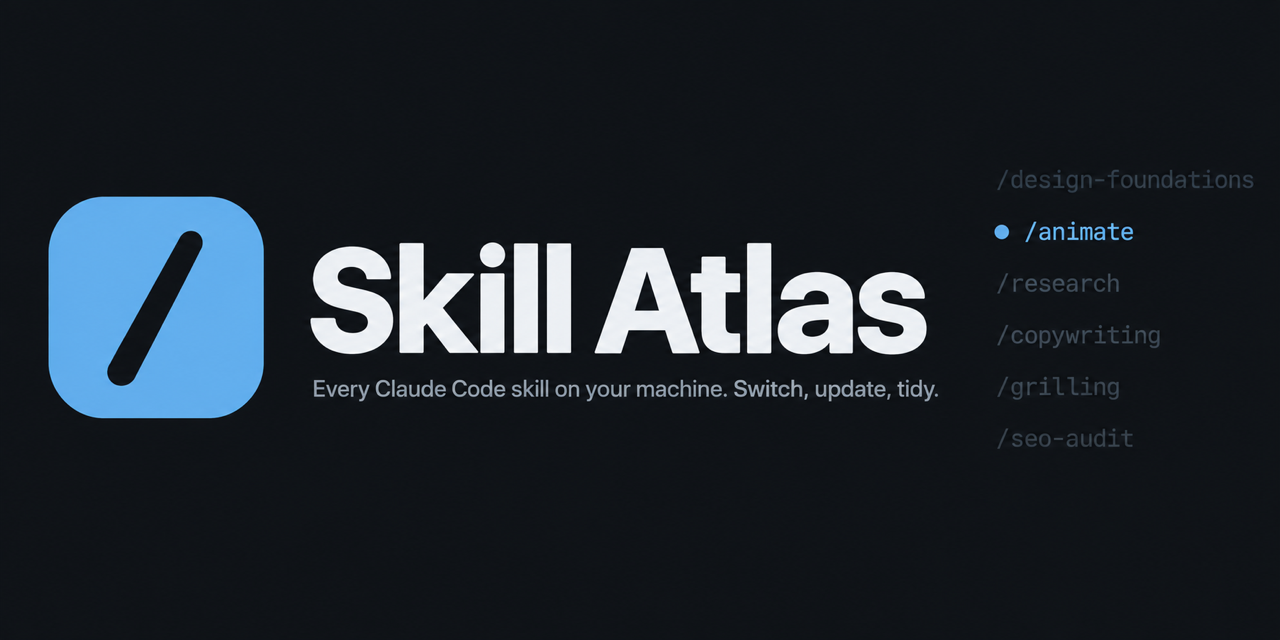
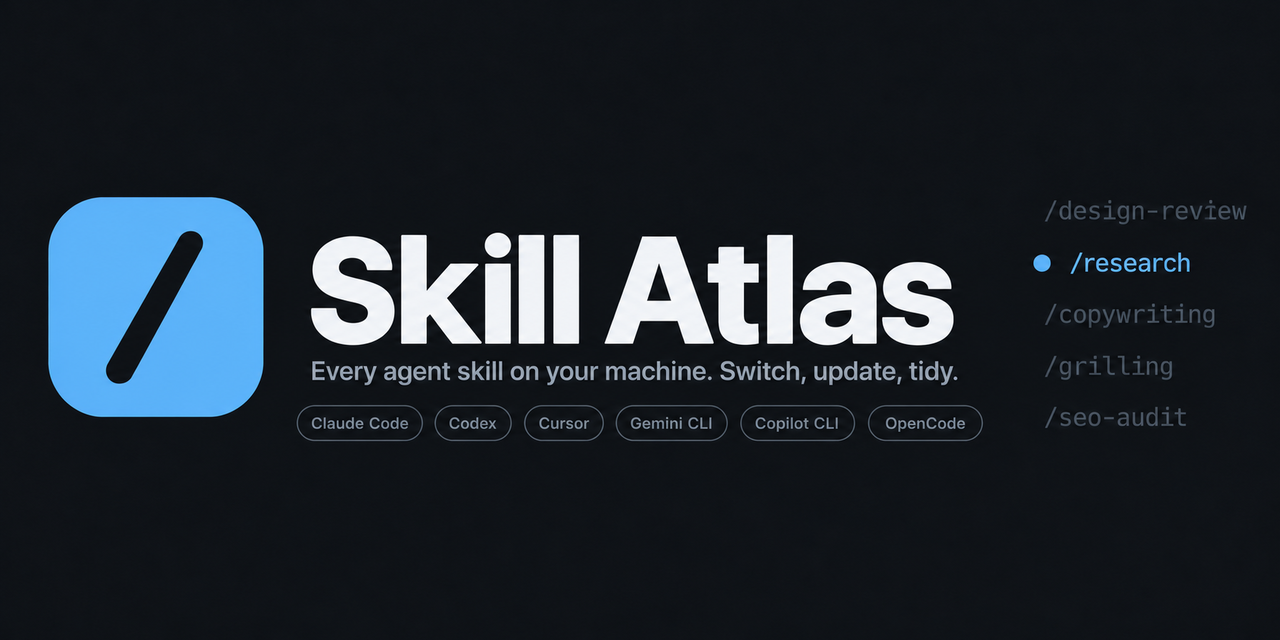
Rewrite the README with a demo GIF and a picture for each feature (#30)
## Summary
- New banner for all harnesses (made with Codex `image_gen`, 1280×640).
- The intro is three sentences, then a GIF of the app: search, the skill
panel, See changes, harness switch, a section that folds, and palettes.
- **What it does** is now a grid. Each feature has one sentence, and
most have a cropped screenshot.
- The images come from a demo home with only public skills and staged
examples. No private or paid skill content is in them.
- The file table lists the seven new modules. Credits for Emil
Kowalski's design engineering skills.
- Removed the old `screenshot.png`.

🤖 Generated with [Claude Code](https://claude.com/claude-code)

https://claude.ai/code/session_01CAt6VsQWayeZDHUdahjLL4

diff --git a/README.md b/README.md
@@ -9,13 +9,12 @@
   <a href="LICENSE"><img src="https://img.shields.io/badge/license-MIT-8B97A3" alt="MIT license"></a>
 </p>
 
-Skill Atlas shows every agent skill on your machine on one local page, for every harness that
-loads them: Claude Code, Codex, Cursor, Gemini CLI, Copilot CLI, OpenCode, and more. You can turn
-skills on and off per harness, update them from GitHub, install new skills from the repos you
-follow, and move old skills to the Trash.
+Skill Atlas is one local page for every agent skill on your machine. It reads the skills of
+Claude Code, Codex, Cursor, Gemini CLI, Copilot CLI, OpenCode, and more. Turn skills on and off for
+each harness, update them from GitHub, and find the ones that cost context but never run.
 
 <p align="center">
-  <img src="docs/images/screenshot.png" alt="Skill Atlas, grouped by source, with updates and available skills" width="900">
+  <img src="docs/images/demo.gif" alt="Search for a skill, read its panel, see the changes in an update, switch harness, and change the palette" width="900">
 </p>
 
 ## Quick start
@@ -62,24 +61,17 @@ Use `--port` to set a different port, and `--no-open` to keep the browser closed
 
 ## What it does
 
-| | |
-| --- | --- |
-| **See everything** | Personal, plugin, and project skills in one list, grouped by the repo they came from. Search covers names, descriptions, sources, and paths. |
-| **Switch skills on and off** | One switch per skill, per source, or per plugin. Changes go to `settings.json`, with a backup made first. |
-| **Update from GitHub** | Marks skills whose upstream folder changed. Update one skill, one source, or all. About 40 skills update in 3 seconds. |
-| **See changes and roll back** | **See changes** on an update shows each added, changed, and removed file, with line diffs. Before each update, the atlas saves the old folder (the last 5 per skill, in `~/.cache/skill-atlas/history`). **History** in the skill panel restores one. |
-| **Find new skills** | Lists the skills a source repo has that you have not installed, and tags the ones added since you last looked. |
-| **Read a skill** | Press `v` to open the whole SKILL.md in a large reader, formatted or as raw Markdown, with a section outline. |
-| **See where it comes from** | Each source shows its owner's GitHub avatar. A source's panel shows the repo's banner, and a skill's panel shows a picture from its own folder when it has one. |
-| **Make it yours** | Switch between dense rows and a card grid. Pick light, dark, or the system theme, one of five palettes, and a quiet background texture. |
-| **Act on many at once** | Tick skills one by one, shift-click a range, or tick a whole source. Then turn them on or off, update, link, copy them as a prompt, or delete them. |
-| **See context cost** | Shows about how many tokens each harness spends in every session to list the skills that are on, and the top five. It marks costly skills that you did not use in 90 days. Sort by **Cost** to put the largest first. |
-| **Find problems** | The **Issues** view lists skills with bad frontmatter, a wrong name, a long description, or links to files that are not there. The inventory panel shows lock entries with no folder and folders with no SKILL.md. The atlas does not fix them. |
-| **Profiles** | Save which skills are on and off as a named profile, from the **Profiles** menu or from a selection. Apply shows what changes in each harness first, and you can undo it. Profiles go in `~/.config/skill-atlas/profiles.json`. |
-| **Move your set** | **Export** in the Inventory panel saves your skills, sources, watched repos, and off switches to a JSON file. **Import** shows what it will install and change, then does it. **Restore** installs again the skills in the lock file that have no folder. |
-| **Check before you trust** | A read-only scan tags skills that run code, and marks **review** on high-risk patterns: piped installs, secret reads, hidden instructions. The skill panel lists each finding with its file and line. It is a heuristic, not a guarantee. |
-| **Tidy up** | Delete moves a skill to the Trash, with Undo. A **same as** tag marks skills with the same description. |
-| **Find overlap** | A **similar** tag marks skills with descriptions so close that the agent can pick the wrong one. A **diverged** tag marks copies of a skill whose SKILL.md is different in another folder. **Compare** shows the line diff. |
+<table>
+<tr><td width="50%" valign="top"><b>Needs attention</b><br>The side panel collects what needs you: high-risk findings, broken SKILL.md files, copies that differ, and costly skills you do not use.<br><br><img src="docs/images/attention.png" alt="Needs attention list with four items" width="400"></td><td width="50%" valign="top"><b>Switch per harness</b><br>Each harness has its own switch, and the atlas writes it to that harness’s config file after it makes a backup.<br><br><img src="docs/images/loaded-by.png" alt="Loaded by list with a switch for each harness" width="400"></td></tr>
+<tr><td width="50%" valign="top"><b>Update from GitHub</b><br>The atlas marks skills whose upstream folder changed, and updates one skill, one source, or all of them.<br><br><img src="docs/images/update-card.png" alt="Update available card with See changes and Update" width="400"></td><td width="50%" valign="top"><b>Find overlap</b><br>The atlas marks skills with descriptions so similar that the agent can load the wrong one, and copies of a skill that differ.<br><br><img src="docs/images/similar.png" alt="Similar skills and a copy that differs, with Compare" width="400"></td></tr>
+<tr><td colspan="2"><b>See changes, then roll back</b><br>Before an update, see each changed file as a line diff, and after it, <b>History</b> can put back any of the last 5 versions.<br><br><img src="docs/images/diff.png" alt="Line diff of the files that an update changes" width="860"></td></tr>
+<tr><td width="50%" valign="top"><b>See context cost</b><br>The atlas estimates how many tokens each harness spends in every session to list the skills that are on.<br><br><img src="docs/images/cost.png" alt="Context cost: about 5.4k tokens, with the top five skills" width="400"></td><td width="50%" valign="top"><b>See what you use</b><br>A heatmap from your session logs shows which skills you use and which you never use.<br><br><img src="docs/images/usage.png" alt="Usage heatmap and the most used skills" width="400"></td></tr>
+<tr><td width="50%" valign="top"><b>Check before you trust</b><br>A read-only heuristic scan marks skills that run code, pipe a download into a shell, read secrets, or hide instructions.<br><br><img src="docs/images/security.png" alt="Security findings for a skill that pipes a download into sh" width="400"></td><td width="50%" valign="top"><b>Find problems</b><br>The <b>Issues</b> view shows SKILL.md files with bad frontmatter, a wrong name, a long description, or links to files that are not there.<br><br><img src="docs/images/problems.png" alt="A problem card: a link to a file that does not exist" width="400"></td></tr>
+<tr><td colspan="2"><b>Act on many at once</b><br>Select skills, a range, or a whole source, then turn them on or off, update, copy, or delete them in one step.<br><br><img src="docs/images/bulk.png" alt="Three skills selected, with the bulk action bar" width="860"></td></tr>
+<tr><td width="50%" valign="top"><b>Profiles</b><br>Save the current switches as a named profile, and apply it later after a preview of each change.<br><br><img src="docs/images/profiles-menu.png" alt="Profiles menu with one saved profile" width="400"></td><td width="50%" valign="top"><b>Move your set</b><br>Export your skills, sources, and switches to a file, and import it on another computer to get the same set.<br><br><img src="docs/images/skill-set.png" alt="Skill set section with Export, Copy, and Import" width="400"></td></tr>
+<tr><td width="50%" valign="top"><b>Make it yours</b><br>Pick rows or cards, a theme, one of five palettes, a quiet background texture, and the page size.<br><br><img src="docs/images/display.png" alt="Display options" width="400"></td><td width="50%" valign="top"><b>Small things</b><br>Find new skills in the repos you follow, see the avatar of each source, and delete to the Trash with Undo.</td></tr>
+<tr><td colspan="2"><b>Read a skill</b><br>Press <kbd>v</kbd> to read the whole SKILL.md in a large reader, with an outline of its sections.<br><br><img src="docs/images/reader.png" alt="The reader with an outline and the formatted SKILL.md" width="860"></td></tr>
+</table>
 
 ## How it works
 
@@ -215,10 +207,22 @@ uv run ruff check . && uv run ruff format --check . && uv run mypy && uv run pyt
 | `src/skill_atlas/harnesses.py` | Where each harness looks for skills, and how its switch reads and writes |
 | `src/skill_atlas/usage.py` | Counts skill use from session logs of Claude Code, Codex, Gemini CLI, Copilot CLI, and OpenCode |
 | `src/skill_atlas/remove.py` | Moves skills to the Trash, and puts them back |
+| `src/skill_atlas/tokens.py` | Estimates the context cost of each skill |
+| `src/skill_atlas/health.py` | Finds problems in SKILL.md files and in the store |
+| `src/skill_atlas/overlap.py` | Finds similar skills and copies that differ |
+| `src/skill_atlas/security.py` | Read-only scan for risky patterns in skill folders |
+| `src/skill_atlas/history.py` | Diffs before an update, snapshots, and rollback |
+| `src/skill_atlas/profiles.py` | Saves and applies named sets of switches |
+| `src/skill_atlas/manifest.py` | Export, import, and restore of a skill set |
 | `src/skill_atlas/build.py` | Puts the records into `web/index.html` |
 | `src/skill_atlas/web/index.html` | The page: one file of HTML, CSS, and JavaScript |
 
 Read [CONTRIBUTING.md](CONTRIBUTING.md) before you open a pull request.
+
+## Credits
+
+The interface follows the design engineering skills of [Emil Kowalski](https://emilkowal.ski). We
+used them for most of the layout, motion, color, and polish decisions on this page.
 
 ## License
 
